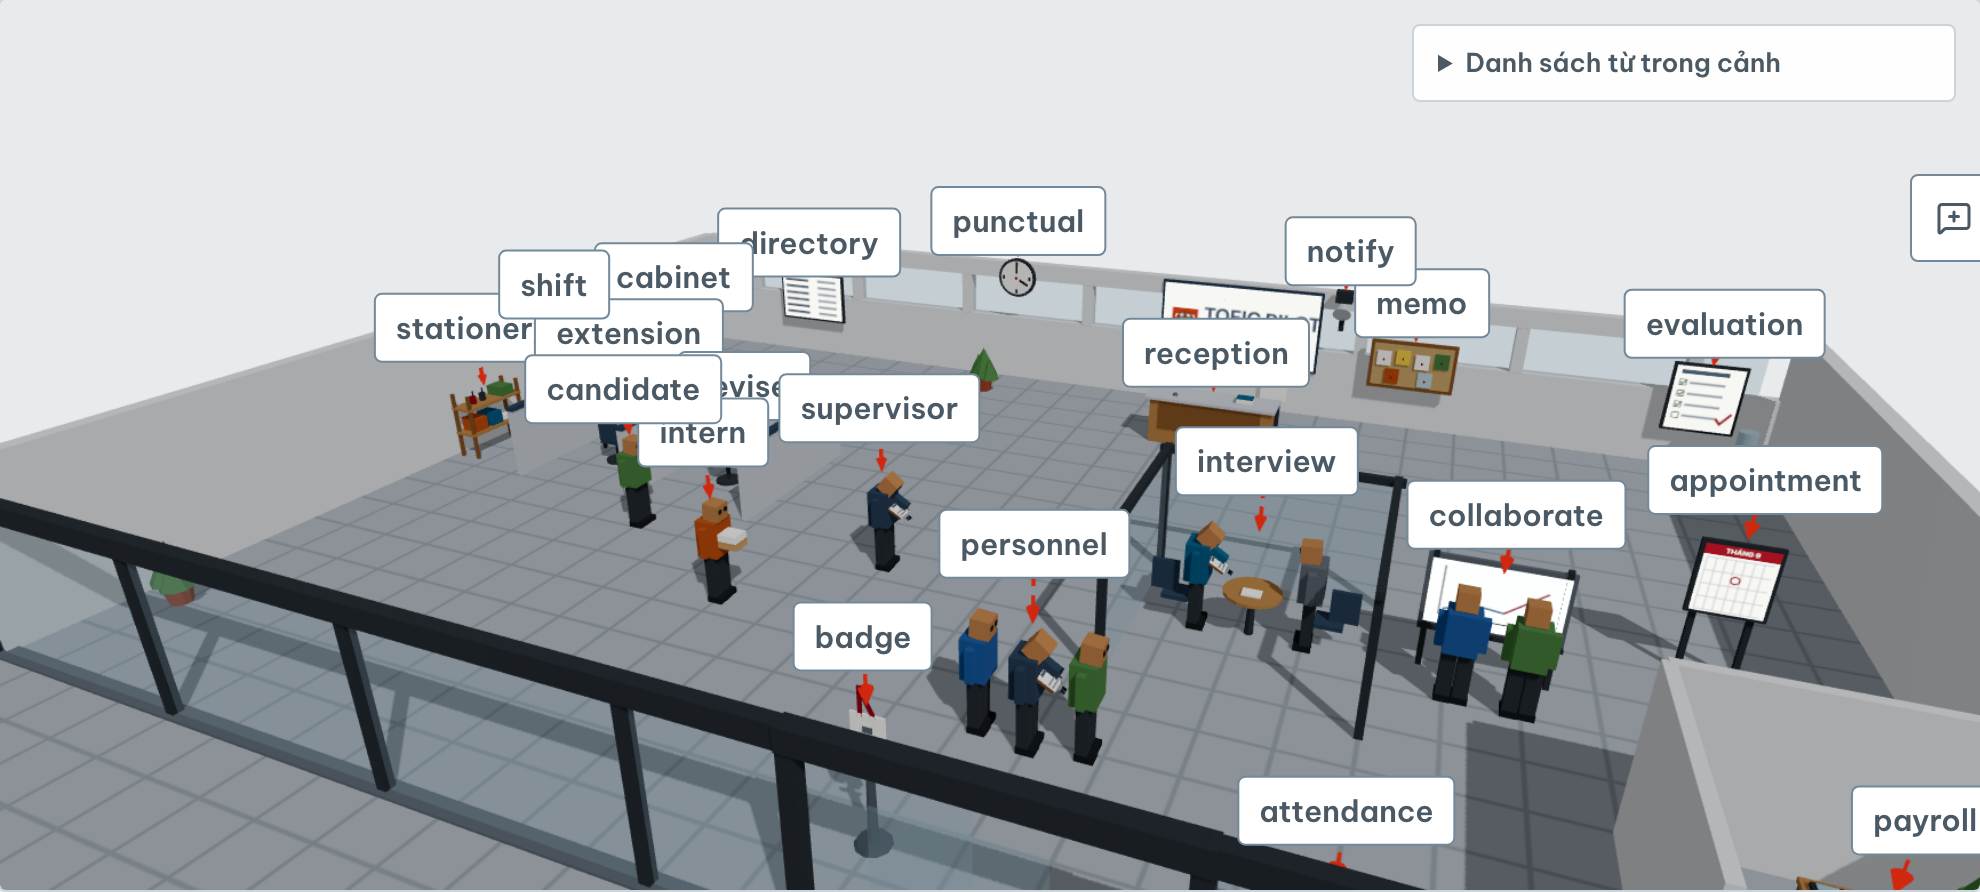
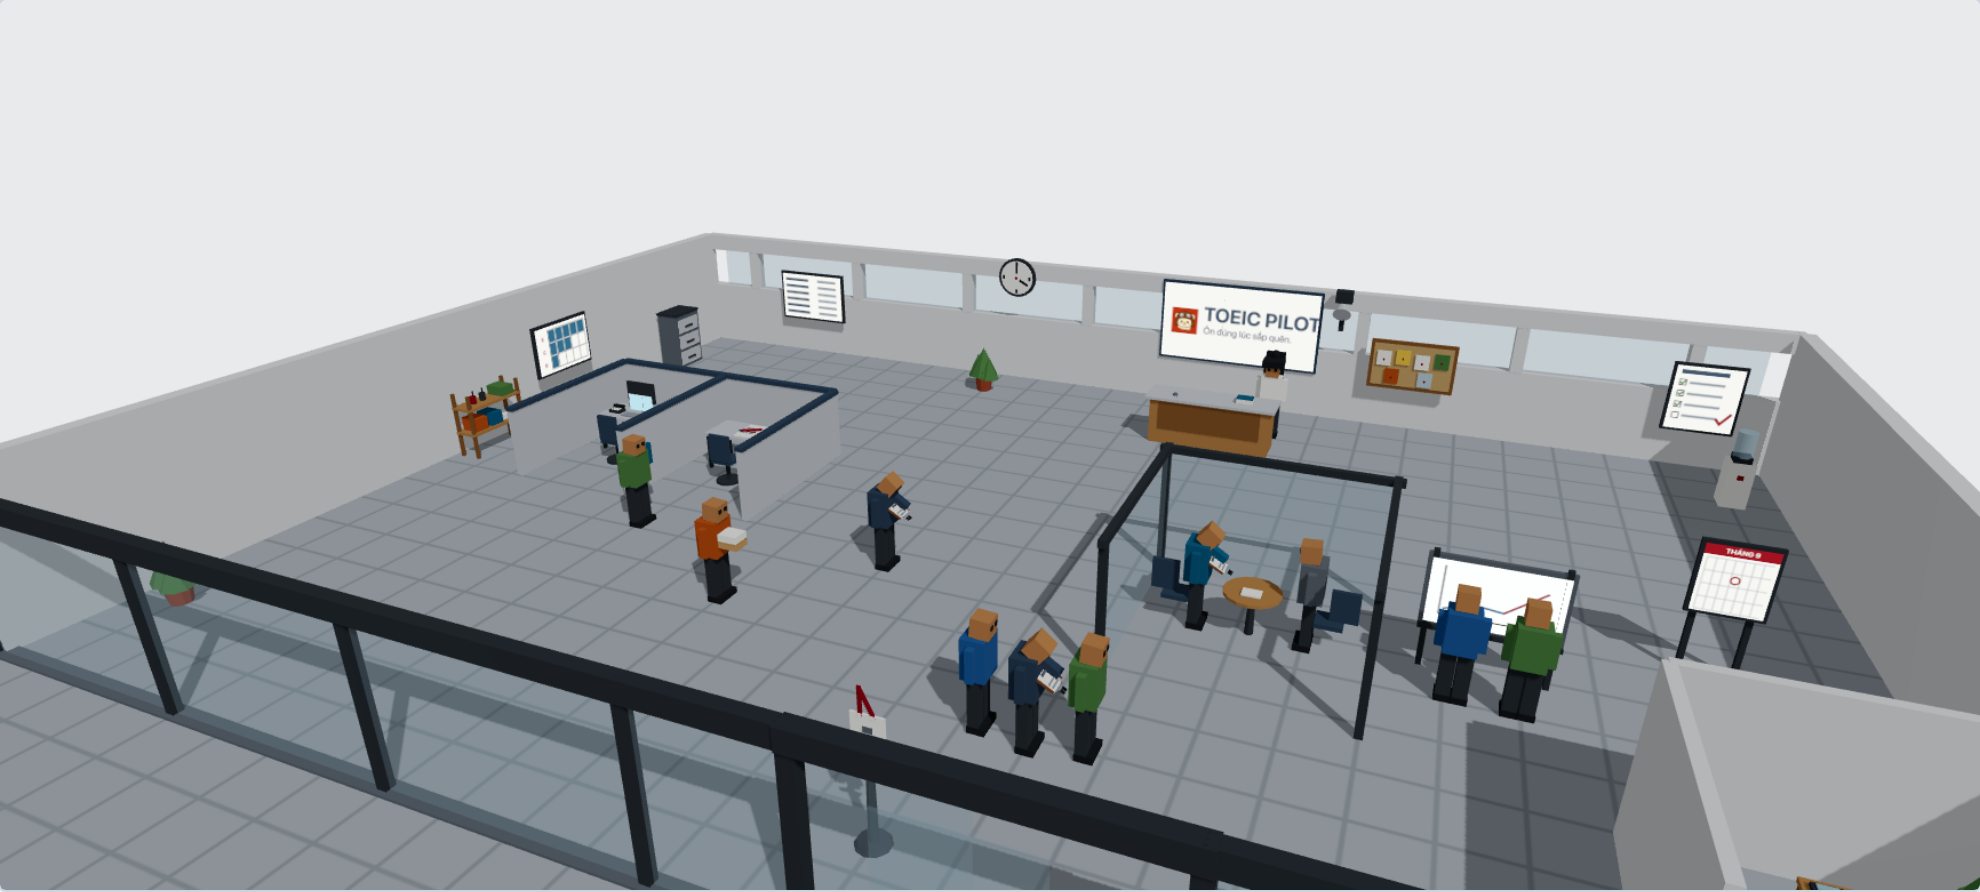
feat(web): thumbnail scene khong nhan — ?plain=1 tat nhan/panel, an nut feedback khi chup

diff --git a/apps/web/src/components/scene-viewer.tsx b/apps/web/src/components/scene-viewer.tsx
@@ -608,7 +608,12 @@ export function SceneViewer({ scene, token }: { scene: SceneDef; token: string }
   const [resolveError, setResolveError] = useState<string | null>(null);
   const [mode, setMode] = useState<Mode>("explore");
   /** Tắt nhãn toàn cảnh (xem 3D thuần) — chung mọi scene, nhớ theo phiên. */
-  const [labelsOn, setLabelsOn] = useState(true);
+  const searchParams = useSearchParams();
+  // `?plain=1`: dựng ảnh thumbnail không nhãn — tắt nhãn ngay từ đầu để
+  // preview spec không chụp dính pill DOM đè lên canvas. Production không có
+  // param nên mặc định nhãn vẫn bật; nút Ẩn/Hiện nhãn vẫn bật lại được.
+  const plain = searchParams.get("plain") === "1";
+  const [labelsOn, setLabelsOn] = useState(() => !plain);
   const labelMode = !labelsOn ? "off" : mode === "explore" ? "pill" : "dot";
   const [selectedId, setSelectedId] = useState<string | null>(null);
   const [detail, setDetail] = useState<VocabularyDetail | null>(null);
@@ -622,7 +627,6 @@ export function SceneViewer({ scene, token }: { scene: SceneDef; token: string }
   // `?preview=all`: hiện ĐỦ shape để xem bố cục khi từ vựng chưa publish
   // (cảnh mới) — production không có param nên hành vi cũ giữ nguyên. Recall
   // vẫn chỉ hỏi từ resolve được (`answerable`).
-  const searchParams = useSearchParams();
   const previewAll = searchParams.get("preview") === "all";
   // Xe chạy và linh vật đi tuần là trang trí, nên `prefers-reduced-motion` tắt
   // được nó — cùng luật với CSS ở `globals.css`. Đo một lần lúc mount: `SceneViewer`
@@ -1015,25 +1019,28 @@ export function SceneViewer({ scene, token }: { scene: SceneDef; token: string }
         {/* §8.3 spec gốc: bản đọc được cho trình đọc màn hình — dựng từ chính
             scene file. Nằm trong khung cảnh để người học khỏi phải rời mắt khỏi
             vật vừa chạm mà đọc; vẫn là DOM thường nên không mất vì WebGL hỏng. */}
-        <details className="absolute right-3 top-3 z-30 max-h-[calc(100%-1.5rem)] w-[min(17rem,calc(100%-1.5rem))] overflow-y-auto rounded border border-rule bg-panel/95 text-small">
-          <summary className="cursor-pointer px-3 py-2 font-semibold text-ink-muted hover:text-ink">
-            Danh sách từ trong cảnh
-          </summary>
-          <ul className="space-y-1.5 border-t border-rule px-3 py-2">
-            {scene.objects.map((o) => {
-              const s = summaries?.get(entryKey(o));
-              return (
-                <li key={o.id}>
-                  <span className="font-semibold">{o.headword}</span>
-                  {s?.phonetic && (
-                    <span className="ml-1.5 font-data text-ink-faint">{s.phonetic}</span>
-                  )}
-                  {s && <span className="ml-1.5 text-ink-muted">— {s.meaning_vi}</span>}
-                </li>
-              );
-            })}
-          </ul>
-        </details>
+        {/* plain (`?plain=1` dựng thumbnail): ẩn hẳn để ảnh là 3D thuần. */}
+        {!plain && (
+          <details className="absolute right-3 top-3 z-30 max-h-[calc(100%-1.5rem)] w-[min(17rem,calc(100%-1.5rem))] overflow-y-auto rounded border border-rule bg-panel/95 text-small">
+            <summary className="cursor-pointer px-3 py-2 font-semibold text-ink-muted hover:text-ink">
+              Danh sách từ trong cảnh
+            </summary>
+            <ul className="space-y-1.5 border-t border-rule px-3 py-2">
+              {scene.objects.map((o) => {
+                const s = summaries?.get(entryKey(o));
+                return (
+                  <li key={o.id}>
+                    <span className="font-semibold">{o.headword}</span>
+                    {s?.phonetic && (
+                      <span className="ml-1.5 font-data text-ink-faint">{s.phonetic}</span>
+                    )}
+                    {s && <span className="ml-1.5 text-ink-muted">— {s.meaning_vi}</span>}
+                  </li>
+                );
+              })}
+            </ul>
+          </details>
+        )}
         {recallDone && <RecallSummary objects={answerable} onExit={exitRecall} />}
       </div>
     </div>

diff --git a/apps/web/e2e/scene-previews.spec.ts b/apps/web/e2e/scene-previews.spec.ts
@@ -15,8 +15,10 @@ test.use({ deviceScaleFactor: 2, viewport: { width: 1280, height: 860 } });
  *   SCENE_PREVIEWS=1 pnpm exec playwright test e2e/scene-previews.spec.ts
  *
  * `locator("canvas").screenshot()` crop khung hình TẠI hộp canvas — mọi lớp phủ DOM
- * đè lên hộp đó (nhãn từ, panel) VẪN lọt vào ảnh. Muốn hình 3D thuần thì phải ẩn
- * nhãn trước, hiện tại chưa cần nên cứ để.
+ * đè lên hộp đó (nhãn từ, panel) VẪN lọt vào ảnh. Thumbnail dựng bằng `?plain=1`
+ * (tắt nhãn ngay từ đầu) nên hình là 3D thuần, không chữ.
+ * Ở chế độ plain không còn `[data-object-id]` để chờ — chờ response từ vựng
+ * (3D chỉ dựng sau khi resolve xong) rồi ngủ thêm cho three vẽ đủ khung hình.
  * `reducedMotion: reduce` dựng cảnh đứng yên tại neo: không có ảnh nào chụp
  * được lúc chiếc xe đang ở giữa tuyến, và hai lần chạy ra hai ảnh khác nhau thì
  * không ai biết bản nào là đúng.
@@ -42,9 +44,14 @@ test("render ảnh xem trước cho từng cảnh", async ({ page, request }) =>
   await skipTour(page);
 
   for (const scene of SCENES) {
-    await page.goto(`/learn/scenes/${scene.id}`);
-    // Chờ resolve xong: có nhãn nghĩa là cả 3D lẫn từ vựng đã vào đủ.
-    await expect(page.locator("[data-object-id]").first()).toBeVisible({ timeout: 30_000 });
+    await page.goto(`/learn/scenes/${scene.id}?plain=1`);
+    await page.waitForResponse((r) => r.url().includes("/api/v1/vocabulary") && r.ok(), {
+      timeout: 30_000,
+    });
+    await expect(page.locator("canvas")).toBeVisible({ timeout: 30_000 });
+    // Nút góp ý fixed ở mép phải đè lên hộp canvas — ẩn nó sau mỗi `goto`
+    // (`addStyleTag` không sống qua chuyển trang), production giữ nguyên.
+    await page.addStyleTag({ content: '[aria-label="Gửi góp ý"]{display:none !important}' });
     await page.waitForTimeout(2500);
     const file = join(OUT, `${scene.id}.png`);
     mkdirSync(dirname(file), { recursive: true });
